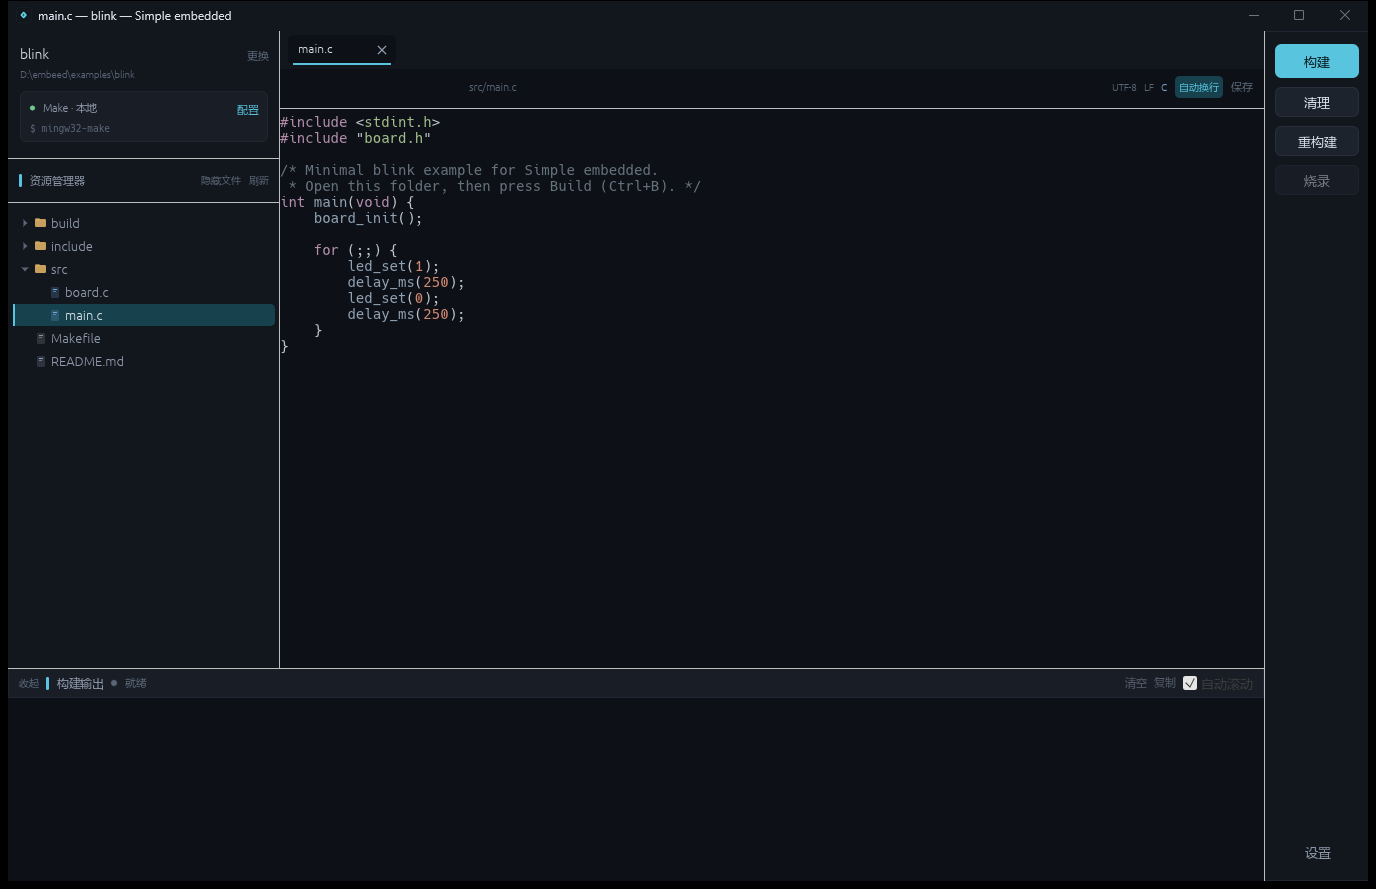
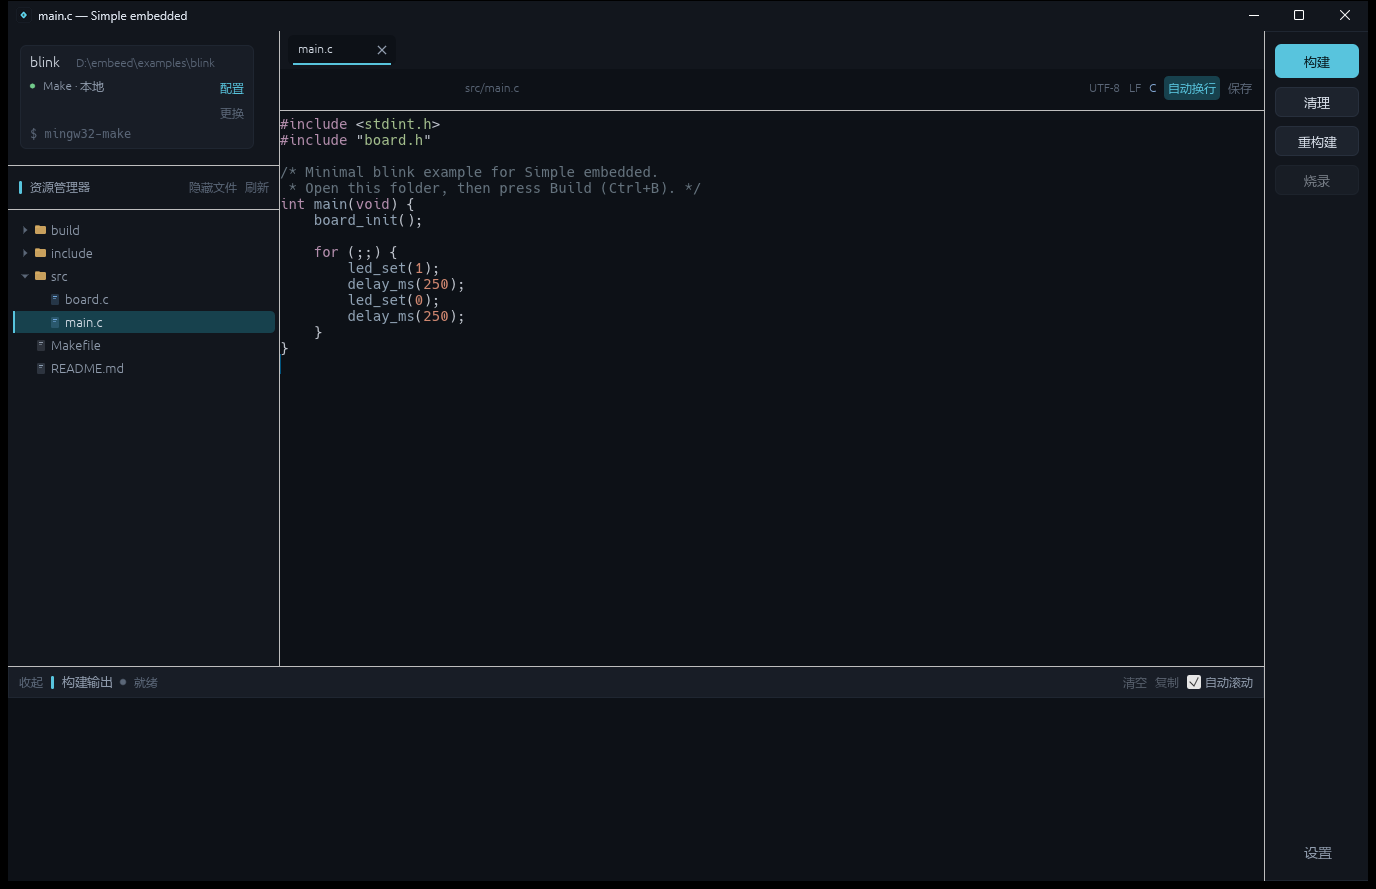
feat: refine project card and enlarge UI typography
Move project identity into the left build card, increase compact label sizes, and refresh documentation screenshots.

diff --git a/src/app/ui.rs b/src/app/ui.rs
@@ -13,6 +13,7 @@ impl App {
             .project
             .as_ref()
             .map(|project| (project.name.clone(), util::display_path(&project.root)));
+        let has_project = project_info.is_some();
         let mode = self.build_config.mode_summary();
         let command = self.build_config.build_command.clone();
         let has_command = !command.trim().is_empty();
@@ -34,36 +35,31 @@ impl App {
                     .inner_margin(Margin::symmetric(12, 0))
                     .show(ui, |ui| {
                         if let Some((name, path)) = &project_info {
-                            ui.horizontal(|ui| {
-                                ui.add(
-                                    Label::new(
-                                        RichText::new(name).size(13.5).strong().color(theme::TEXT),
-                                    )
-                                    .truncate(),
-                                );
-                                ui.with_layout(Layout::right_to_left(Align::Center), |ui| {
-                                    if ui
-                                        .add(small_flat_button("更换", theme::TEXT_FAINT))
-                                        .on_hover_text("打开另一个工程文件夹 (Ctrl+O)")
-                                        .clicked()
-                                    {
-                                        actions.push(Action::OpenPicker);
-                                    }
-                                });
-                            });
-                            ui.add(
-                                Label::new(RichText::new(path).size(9.5).color(theme::TEXT_FAINT))
-                                    .truncate(),
-                            )
-                            .on_hover_text(path);
-
-                            ui.add_space(8.0);
                             Frame::new()
                                 .fill(theme::PANEL_RAISED)
                                 .stroke(Stroke::new(1.0_f32, theme::BORDER_SOFT))
                                 .corner_radius(6)
                                 .inner_margin(Margin::symmetric(9, 7))
                                 .show(ui, |ui| {
+                                    ui.horizontal(|ui| {
+                                        ui.label(
+                                            RichText::new(name)
+                                                .size(14.0)
+                                                .strong()
+                                                .color(theme::TEXT),
+                                        );
+                                        ui.add_space(8.0);
+                                        let response = ui.add(
+                                            Label::new(
+                                                RichText::new(path)
+                                                    .size(11.5)
+                                                    .color(theme::TEXT_FAINT),
+                                            )
+                                            .truncate(),
+                                        );
+                                        response.on_hover_text(path);
+                                    });
+                                    ui.add_space(3.0);
                                     ui.horizontal(|ui| {
                                         colored_dot(
                                             ui,
@@ -80,7 +76,7 @@ impl App {
                                             } else {
                                                 "尚未配置构建".to_owned()
                                             })
-                                            .size(10.5)
+                                            .size(12.0)
                                             .color(
                                                 if has_command {
                                                     theme::TEXT_DIM
@@ -89,25 +85,34 @@ impl App {
                                                 },
                                             ),
                                         );
-                                        ui.with_layout(
-                                            Layout::right_to_left(Align::Center),
-                                            |ui| {
-                                                if ui
-                                                    .add(small_flat_button("配置", theme::ACCENT))
-                                                    .on_hover_text("编辑构建环境")
-                                                    .clicked()
-                                                {
-                                                    actions.push(Action::OpenSettings);
-                                                }
-                                            },
-                                        );
+                                        let links_width = 38.0;
+                                        let remaining = ui.available_width();
+                                        if remaining > links_width {
+                                            ui.add_space(remaining - links_width);
+                                        }
+                                        ui.vertical(|ui| {
+                                            if ui
+                                                .add(small_flat_button("配置", theme::ACCENT))
+                                                .on_hover_text("编辑构建环境")
+                                                .clicked()
+                                            {
+                                                actions.push(Action::OpenSettings);
+                                            }
+                                            if ui
+                                                .add(small_flat_button("更换", theme::TEXT_FAINT))
+                                                .on_hover_text("打开另一个工程文件夹 (Ctrl+O)")
+                                                .clicked()
+                                            {
+                                                actions.push(Action::OpenPicker);
+                                            }
+                                        });
                                     });
                                     if has_command {
                                         ui.add(
                                             Label::new(
                                                 RichText::new(format!("$ {command}"))
                                                     .monospace()
-                                                    .size(9.5)
+                                                    .size(12.0)
                                                     .color(theme::TEXT_FAINT),
                                             )
                                             .truncate(),
@@ -131,7 +136,7 @@ impl App {
                                     ui.add_space(3.0);
                                     ui.label(
                                         RichText::new("选择一个已有的工程文件夹")
-                                            .size(9.5)
+                                            .size(11.0)
                                             .color(theme::TEXT_FAINT),
                                     );
                                     ui.add_space(8.0);
@@ -164,17 +169,17 @@ impl App {
                             );
                             ui.label(
                                 RichText::new("资源管理器")
-                                    .size(11.0)
+                                    .size(12.0)
                                     .strong()
                                     .color(theme::TEXT_DIM),
                             );
-                            if project_info.is_some() {
+                            if has_project {
                                 ui.with_layout(Layout::right_to_left(Align::Center), |ui| {
                                     if ui
                                         .add(
                                             Button::new(
                                                 RichText::new("刷新")
-                                                    .size(10.0)
+                                                    .size(12.0)
                                                     .color(theme::TEXT_FAINT),
                                             )
                                             .frame(false),
@@ -193,7 +198,7 @@ impl App {
                                         .add(
                                             Button::new(
                                                 RichText::new("隐藏文件")
-                                                    .size(10.0)
+                                                    .size(12.0)
                                                     .color(hidden_color),
                                             )
                                             .frame(false),
@@ -220,7 +225,7 @@ impl App {
                         Frame::new()
                             .inner_margin(Margin::symmetric(5, 4))
                             .show(ui, |ui| {
-                                if project_info.is_some() {
+                                if has_project {
                                     if let Some(tree) = self.tree.as_mut() {
                                         let tree_actions = tree.show(ui, active_path.as_deref());
                                         for tree_action in tree_actions {
@@ -240,7 +245,7 @@ impl App {
                                     ui.vertical_centered(|ui| {
                                         ui.label(
                                             RichText::new("工程文件会显示在这里")
-                                                .size(10.0)
+                                                .size(11.0)
                                                 .color(theme::TEXT_FAINT),
                                         );
                                     });
@@ -422,16 +427,16 @@ impl App {
             .fill(theme::EDITOR_BG)
             .inner_margin(Margin::symmetric(12, 4))
             .show(ui, |ui| {
-                ui.spacing_mut().interact_size.y = 22.0;
+                ui.spacing_mut().interact_size.y = 24.0;
                 ui.horizontal(|ui| {
                     let response = ui.add_sized(
-                        [ui.available_width().min(400.0), 20.0],
-                        Label::new(RichText::new(&path).size(10.5).color(theme::TEXT_FAINT))
+                        [ui.available_width().min(400.0), 22.0],
+                        Label::new(RichText::new(&path).size(12.0).color(theme::TEXT_FAINT))
                             .truncate(),
                     );
                     response.on_hover_text(&full_path);
                     if dirty {
-                        ui.label(RichText::new("● 未保存").size(9.5).color(theme::WARNING));
+                        ui.label(RichText::new("● 未保存").size(11.0).color(theme::WARNING));
                     }
                     ui.with_layout(Layout::right_to_left(Align::Center), |ui| {
                         let save_color = if dirty {
@@ -441,7 +446,7 @@ impl App {
                         };
                         if ui
                             .add(
-                                Button::new(RichText::new("保存").size(10.5).color(save_color))
+                                Button::new(RichText::new("保存").size(12.0).color(save_color))
                                     .frame(false),
                             )
                             .on_hover_text("保存当前文件 (Ctrl+S)")
@@ -456,7 +461,7 @@ impl App {
                         };
                         if ui
                             .add(
-                                Button::new(RichText::new("自动换行").size(10.0).color(wrap_color))
+                                Button::new(RichText::new("自动换行").size(12.0).color(wrap_color))
                                     .fill(if word_wrap {
                                         theme::ACCENT_SOFT
                                     } else {
@@ -470,9 +475,9 @@ impl App {
                         {
                             actions.push(Action::ToggleWrap);
                         }
-                        ui.label(RichText::new(&language).size(9.5).color(theme::INFO));
-                        ui.label(RichText::new(newline).size(9.5).color(theme::TEXT_FAINT));
-                        ui.label(RichText::new("UTF-8").size(9.5).color(theme::TEXT_FAINT));
+                        ui.label(RichText::new(&language).size(12.0).color(theme::INFO));
+                        ui.label(RichText::new(newline).size(12.0).color(theme::TEXT_FAINT));
+                        ui.label(RichText::new("UTF-8").size(12.0).color(theme::TEXT_FAINT));
                     });
                 });
             });
@@ -1014,7 +1019,7 @@ impl App {
                 ui.label(RichText::new(title).size(16.0).strong().color(theme::TEXT));
             });
             ui.add_space(10.0);
-            ui.label(RichText::new(body).size(11.5).color(theme::TEXT_DIM));
+            ui.label(RichText::new(body).size(12.0).color(theme::TEXT_DIM));
             ui.add_space(4.0);
             ui.label(
                 RichText::new("未命名的外部修改不会被覆盖，但未保存内容会丢失。")

diff --git a/src/app.rs b/src/app.rs
@@ -601,13 +601,9 @@ impl App {
     }
 
     fn sync_title(&mut self, ctx: &egui::Context) {
-        let title = if let Some(project) = &self.project {
-            let file = self
-                .active_document()
-                .map(|doc| format!("{} — ", doc.name))
-                .unwrap_or_default();
-            let dirty = if self.has_unsaved() { " ●" } else { "" };
-            format!("{file}{}{dirty} — {APP_NAME}", project.name)
+        let title = if let Some(doc) = self.active_document() {
+            let dirty = if doc.is_dirty() { " ●" } else { "" };
+            format!("{}{dirty} — {APP_NAME}", doc.name)
         } else {
             APP_NAME.to_owned()
         };
@@ -958,14 +954,14 @@ impl App {
                     .inner_margin(Margin::symmetric(10, 3))
                     .stroke(Stroke::new(1.0_f32, theme::BORDER_SOFT))
                     .show(ui, |ui| {
-                        ui.spacing_mut().interact_size.y = 22.0;
+                        ui.spacing_mut().interact_size.y = 24.0;
                         ui.horizontal(|ui| {
                             let toggle_label = if open { "收起" } else { "展开" };
                             if ui
                                 .add(
                                     Button::new(
                                         RichText::new(toggle_label)
-                                            .size(9.5)
+                                            .size(12.0)
                                             .color(theme::TEXT_FAINT),
                                     )
                                     .frame(false),
@@ -989,24 +985,27 @@ impl App {
                             );
                             ui.label(
                                 RichText::new("构建输出")
-                                    .size(11.5)
+                                    .size(12.5)
                                     .strong()
                                     .color(theme::TEXT_DIM),
                             );
 
                             colored_dot(ui, status_color, 6.0);
-                            ui.label(RichText::new(status_text).size(10.5).color(status_color));
+                            ui.label(RichText::new(status_text).size(12.0).color(status_color));
 
                             if problem_count > 0 {
                                 ui.label(
                                     RichText::new(format!("{problem_count} 条问题"))
-                                        .size(10.0)
+                                        .size(11.0)
                                         .color(theme::ERROR),
                                 );
                             }
 
                             ui.with_layout(Layout::right_to_left(Align::Center), |ui| {
-                                let auto = ui.checkbox(&mut auto_scroll, "自动滚动");
+                                let auto = ui.checkbox(
+                                    &mut auto_scroll,
+                                    RichText::new("自动滚动").size(12.0).color(theme::TEXT_DIM),
+                                );
                                 auto.on_hover_text("构建输出增加时自动滚动到底部");
 
                                 let copy_enabled = log_count > 0;
@@ -1029,7 +1028,7 @@ impl App {
                                 if running {
                                     let stop = ui.add(
                                         Button::new(
-                                            RichText::new("停止").size(10.5).color(theme::ERROR),
+                                            RichText::new("停止").size(12.0).color(theme::ERROR),
                                         )
                                         .fill(theme::ERROR.gamma_multiply(0.12))
                                         .stroke(Stroke::new(
@@ -1181,10 +1180,10 @@ impl App {
 }
 
 fn small_flat_button(text: &str, color: Color32) -> egui::Button<'static> {
-    Button::new(RichText::new(text.to_owned()).size(10.5).color(color))
+    Button::new(RichText::new(text.to_owned()).size(12.0).color(color))
         .frame(false)
         .corner_radius(4)
-        .min_size(egui::vec2(0.0, 21.0))
+        .min_size(egui::vec2(0.0, 22.0))
 }
 
 fn colored_dot(ui: &mut egui::Ui, color: Color32, size: f32) {

diff --git a/src/theme.rs b/src/theme.rs
@@ -118,7 +118,7 @@ pub fn secondary_button(text: impl Into<String>) -> egui::Button<'static> {
 }
 
 pub fn ghost_button(text: impl Into<String>) -> egui::Button<'static> {
-    egui::Button::new(egui::RichText::new(text.into()).color(TEXT_DIM).size(12.5))
+    egui::Button::new(egui::RichText::new(text.into()).color(TEXT_DIM).size(13.5))
         .fill(Color32::TRANSPARENT)
         .stroke(Stroke::NONE)
         .corner_radius(5)

diff --git a/docs/TUTORIAL.md b/docs/TUTORIAL.md
@@ -39,18 +39,18 @@ cargo run --release -- D:\firmware\my-board src\main.c
 
 ## 2. 认识主界面
 
-主界面分为三块：
+主界面分为四块：
 
 ```text
-┌──────────────────────┬────────────────────────────────┐
-│ 左侧：工程卡片 + 文件树 │ 中间：多标签代码编辑器 / 空状态   │
-├──────────────────────┴────────────────────────────────┤
+┌──────────────────────┬────────────────┬───────────────┐
+│ 左侧：构建卡片 + 文件树 │ 中间：代码编辑   │ 右侧操作栏     │
+├──────────────────────┴────────────────┴───────────────┤
 │ 底部：构建输出（彩色编译日志 / 错误 / 警告）              │
-├───────────────────────────────────────────────────────┤
-│ 右侧操作栏：构建 / 清理 / 重构建 / 烧录 / 设置            │
 └───────────────────────────────────────────────────────┘
 ```
 
+- 左侧构建卡片顶部显示当前工程名和完整路径
+- 构建卡片里的 **配置** 用于修改构建命令，**更换** 用于切换工程
 - 左侧点文件夹展开，点文件在中间打开
 - 文件有修改时，Tab 上会出现黄色圆点，窗口标题也会标记为未保存
 - 底部输出面板可以拖动上边缘调整高度，也可以点标题左侧的 **收起/展开**

diff --git a/README.md b/README.md
@@ -2,7 +2,7 @@
 
 一个 Windows 桌面端的极简嵌入式编辑器：**文件夹就是工程**，导入目录 → 编辑代码 → 一键构建 → 查看彩色日志。没有工程向导，没有芯片包，没有存储器布局，也不会向工程目录写入任何项目文件。
 
-使用 Rust + `eframe/egui` 编写。界面是左侧工程卡片与文件树、中间多标签代码编辑、底部异步构建输出，构建操作集中在右侧操作栏。
+使用 Rust + `eframe/egui` 编写。界面左侧构建卡片显示工程名、路径和构建命令，下面是文件树；中间是多标签代码编辑，底部是异步构建输出，操作集中在右侧栏。
 
 ![Simple embedded](docs/editor.png)
 
@@ -16,7 +16,7 @@
 
 - 打开任意文件夹作为工程，不做 `Makefile` / `Cargo.toml` / `CMakeLists.txt` 之外的项目配置
 - 深色标题栏与界面配色一致，构建 / 清理 / 重构建 / 烧录集中在右侧操作栏
-- 左侧工程卡片显示构建模式和命令，可打开设置或切换工程
+- 左侧构建卡片显示工程名（加粗）、完整路径、构建模式和命令，可配置或更换工程
 - 左侧目录树：展开/折叠、隐藏文件、刷新、点击打开文件；右键可在资源管理器或 VS Code 中打开
 - 多文件 Tab、脏标记、关闭前提示保存
 - 文本编辑：`Ctrl+S` 保存、Tab 缩进、撤销/重做、复制粘贴等由 egui 文本编辑控件提供

diff --git a/AGENTS.md b/AGENTS.md
@@ -66,7 +66,7 @@ docs/                  README 截图和使用教程
 - 事件采用 immediate mode：`App::ui` 收集 `Action`，再在帧末 `apply_actions`。部分明显的即时状态（滚动、输出开关）直接修改。
 - `src/app/ui.rs` 是 `app` 的子模块，可以访问父模块私有字段；跨模块公开方法用 `pub(super)`。
 - 自定义画线/图标优先用 `Painter`，不要依赖可能没有字形的 Unicode 图标。CJK 字体在 `main.rs` 运行时从系统字体加载。
-- 左侧工程卡片和文件树展示路径时使用 `util::display_path` 去掉 Windows `\\?\` 前缀。
+- 左侧构建卡片顶部显示工程名（粗体）和路径，路径使用 `util::display_path` 去掉 Windows `\\?\` 前缀；下方显示构建模式、配置/更换和命令。
 - 无工程时左上角显示“导入工程”卡片；中间只显示一行提示“请在左上角选择工程并开始”。
 - Windows 标题栏通过 DWM 深色属性和 `ViewportCommand::SetTheme(Dark)` 与面板配色保持一致。
 
